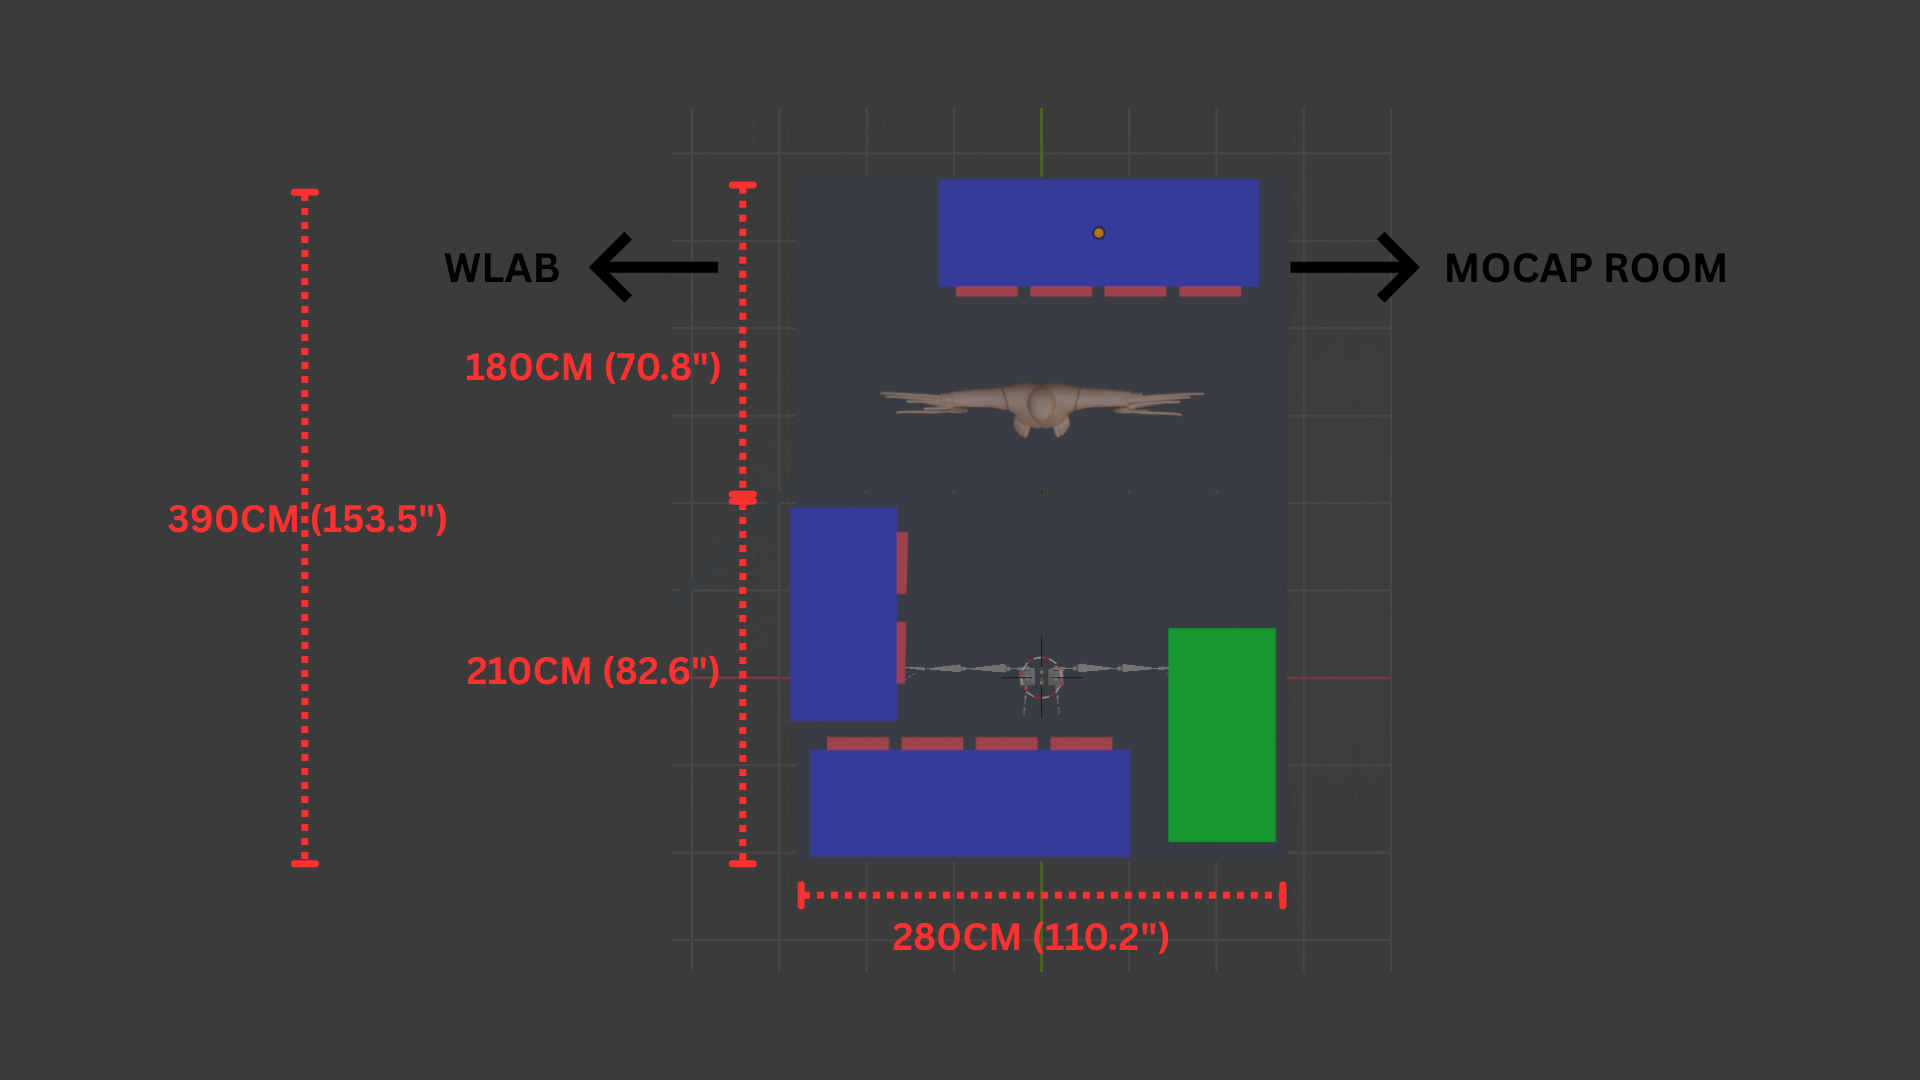
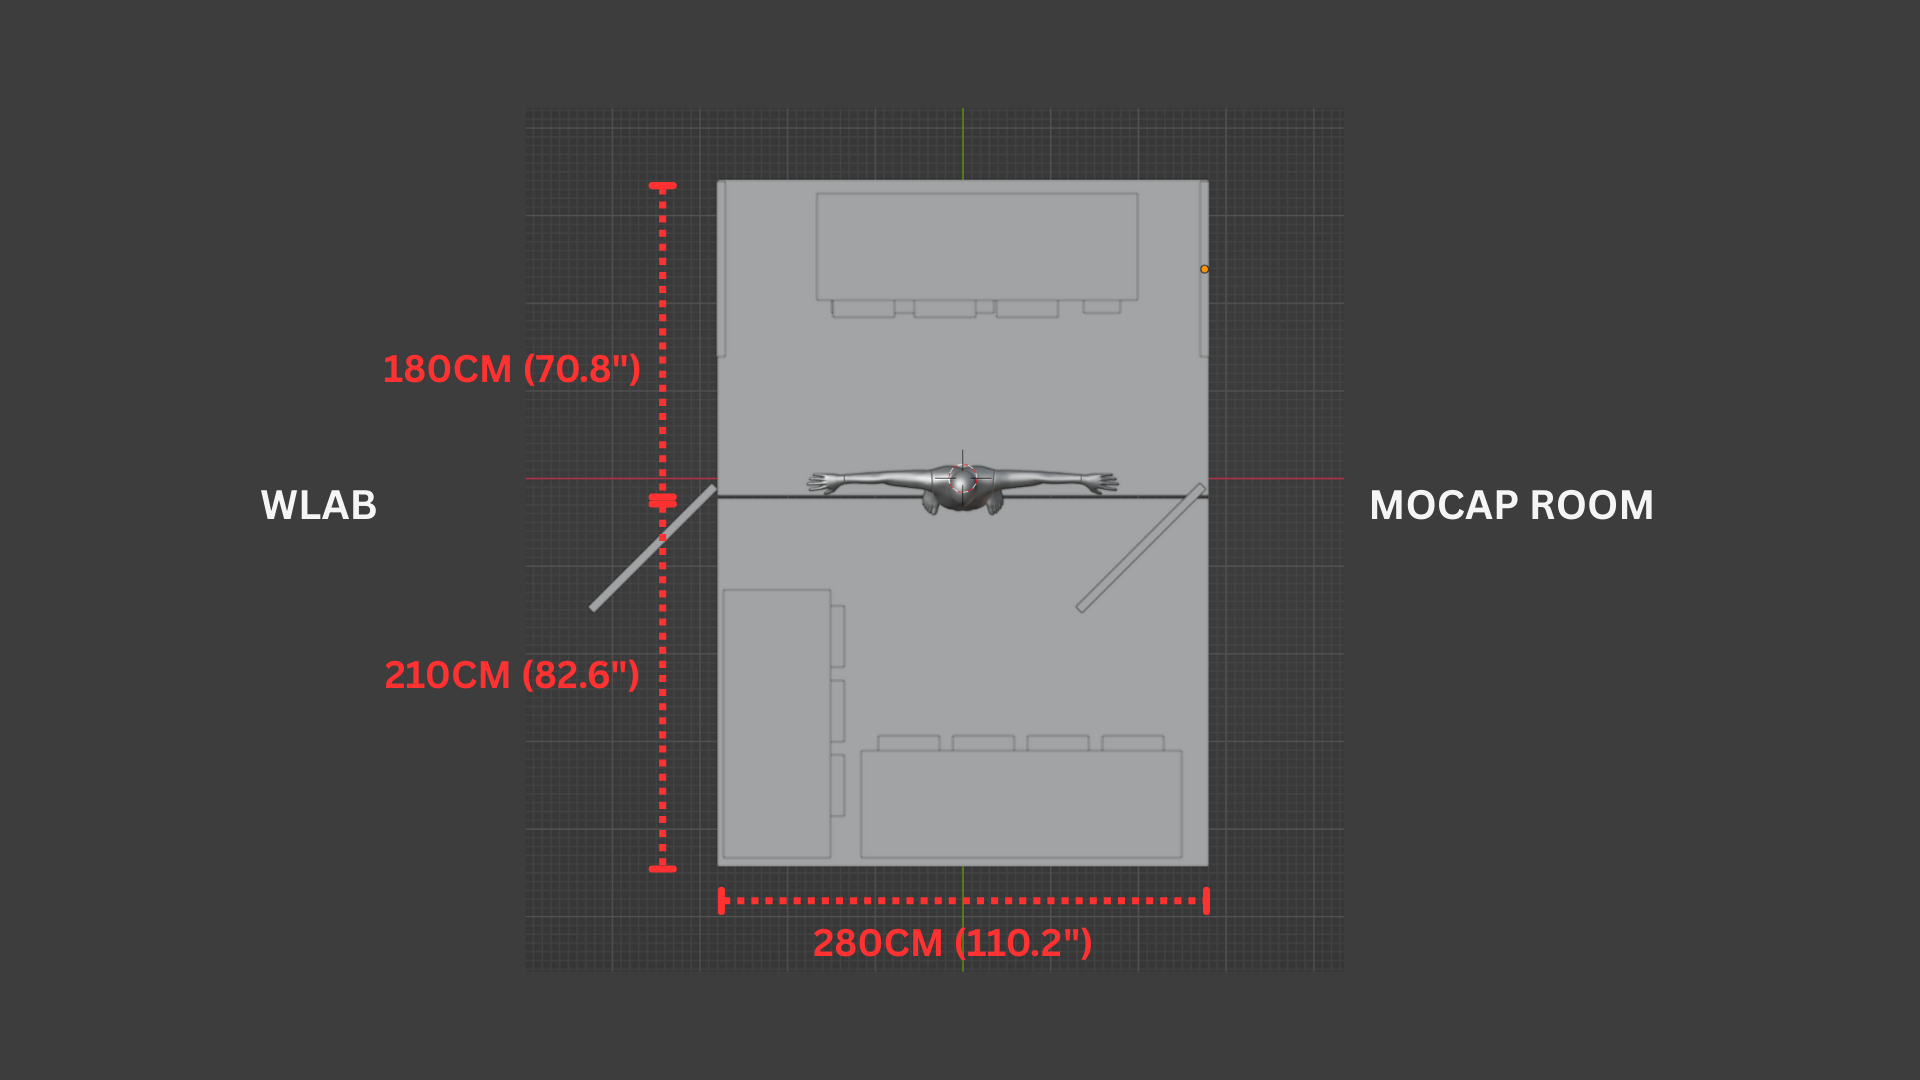
Update 3D model images and dimension diagram
- Replace old 3D views with 4 new renders (view1, view2, view3, topview)
- Update storage room dimension diagram

Changed region(s): [[0.1875, 0.1528, 0.9062, 0.8861], [0.0938, 0.4278, 0.25, 0.5194], [0.7188, 0.4583, 0.875, 0.4889]]

diff --git a/Navy_Yard_Lighting_Storage_Plan.md b/Navy_Yard_Lighting_Storage_Plan.md
@@ -37,9 +37,13 @@ See full inventory details: [Leviton Inventory Summary](Leviton_Inventory_Summar
 
 ### 3D Model
 
-| Perspective View | Top View |
-|------------------|----------|
-| <img src="image/blender-3d-model-perspective.png" width="300"> | <img src="image/blender-3d-model-topview.png" width="300"> |
+| View 1 | View 2 |
+|--------|--------|
+| <img src="image/blender-3d-model-view1.png" width="300"> | <img src="image/blender-3d-model-view2.png" width="300"> |
+
+| View 3 | Top View |
+|--------|----------|
+| <img src="image/blender-3d-model-view3.png" width="300"> | <img src="image/blender-3d-model-topview.png" width="300"> |
 
 ---
 
